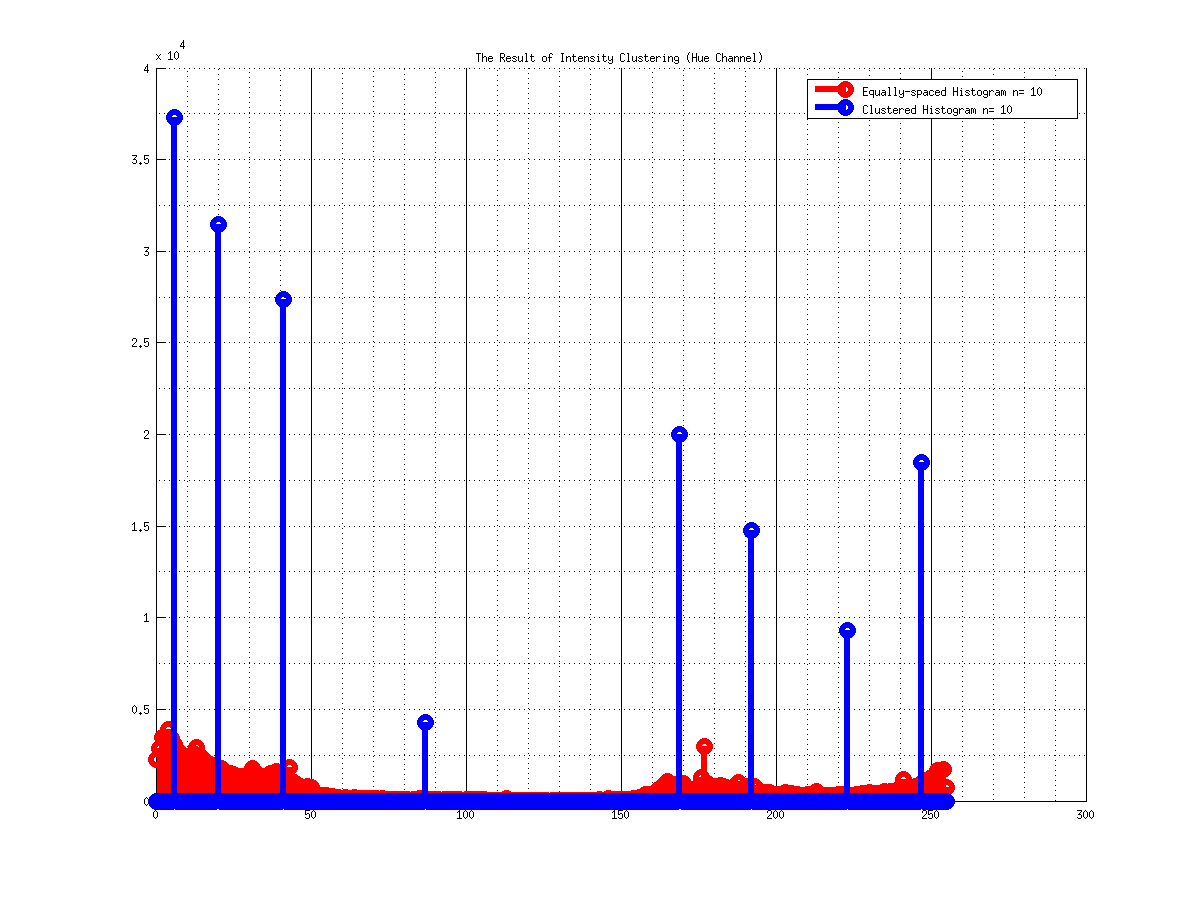
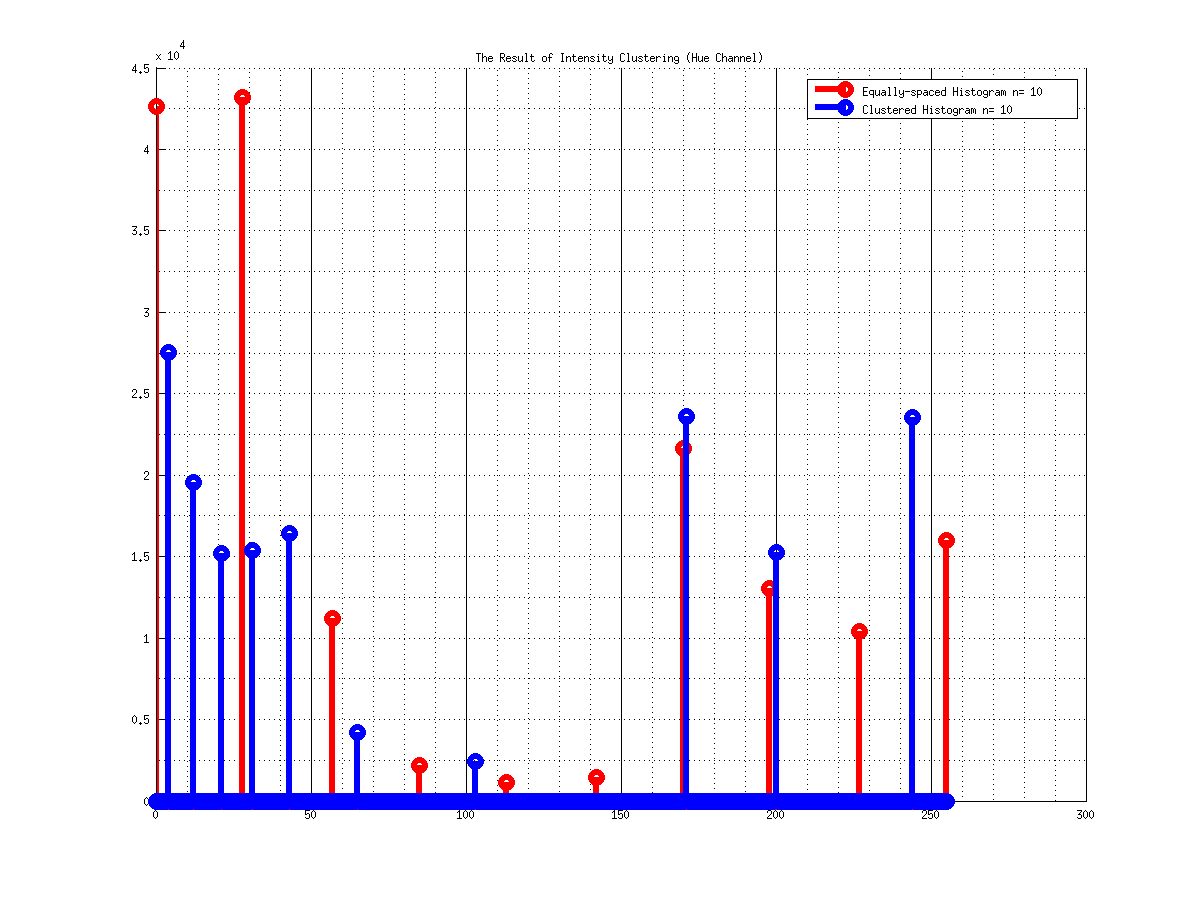
4 ChRi$

Changed region(s): [[0.1233, 0.0933, 0.3083, 0.9022], [0.4933, 0.4356, 0.8017, 0.9022], [0.3392, 0.7778, 0.4317, 0.9022]]

diff --git a/PS2/matlab/detectCircles.m b/PS2/matlab/detectCircles.m
@@ -1,34 +1,24 @@
 function [centers, ind] = detectCircles(im, radius, useGradient)
+    im = rgb2gray(im);
     [h, w, ~] = size(im);
+    [Gmag,Gdir] = imgradient(im);
+    edges = Gmag>mean(Gmag(:));
     
-    houghSpace = zeros(h,w);
-    theta.x= linspace(0,2*pi,h);
-    theta.y= linspace(0,2*pi,w);
+    [i, j] = find(edges == 1);
     
-    if(useGradient==1)
-
-        im = rgb2gray(im);
-
-        [Gmag,Gdir] = imgradient(im);
-        edges = uint8(Gmag);
-
-        edges = edges>mean(Gmag(:));
-        imshow(edges)
-    %     for i=1:h
-    %         for j=1:w
-    %             if(edges == 1)
-    %                 ind.x = radius * cos(theta) +.x;
-    %                 ind.y = radius * sin(theta) +center.y;
-    %                 houghSpace(ind.x,ind.y) = houghSpace(ind.x,ind.y) + 1;
-    %             end
-    %         end
-    %     end         
-        i=1:h;
-        j=1:w;
-
-        ind.x = radius * cos(theta.x) + i
-        ind.y = radius * sin(theta.y) + j
-        houghSpace(ind.x,ind.y) = houghSpace(ind.x,ind.y) + 1;
-        centers = houghSpace;
-	end
+    thetaResolution = 0.1;
+    angle = 0:thetaResolution:2*pi;
+    angleIndex = 1:numel(theta);
+    houghSpace = zeros(h,w,numel(theta));
+    
+    for counter=1:numel(i)
+        center.x = i(counter); center.y = j(counter);
+        if(useGradient == 1)
+            theta = 
+        end
+            
+        a = center.x -radius * cos(theta)
+                
+    end
+    
 end

diff --git a/PS2/matlab/hough.m b/PS2/matlab/hough.m
@@ -1,0 +1,49 @@
+clc; clear all; close all; profile on;
+
+im = imread('jupiter.jpg');
+[h, w, ~] = size(im);
+
+frame = zeros(h,w, 'uint8');
+
+radius = 150;
+% center.x = 200;
+% center.y = 200;
+useGradient = 1;
+% detectCircles(im,10,1);
+
+im = rgb2gray(im);
+[h, w, ~] = size(im);
+[Gmag,Gdir] = imgradient(im);
+edges = Gmag>mean(Gmag(:));
+
+Gdir = Gdir * 0.0175 + pi;
+
+[i, j] = find(edges == 1);
+
+thetaResolution = 0.1;
+angle = 0:thetaResolution:2*pi;
+angleIndex = 1:numel(angle);
+houghSpace = zeros(h,w);
+
+for counter=1:numel(i)
+    center.y = i(counter);
+    center.x = j(counter);
+    if(useGradient == 1)
+        theta = Gdir(center.y, center.x);
+    else
+        theta = angle;
+    end
+           
+    a = center.x + radius * cos(theta);
+    b = center.y + radius * sin(theta);
+    a(a>w | a<1) = [];
+    b(b>h | b<1) = [];
+    
+    houghSpace(round(b), round(a)) = houghSpace(round(b), round(a)) + 1;
+    
+%     for votingCounter=1:numel(theta)
+%         [~, idx] = min(abs(angle-theta(votingCounter)));
+%         ['a: ', num2str(round(a)), ' b: ', num2str(round(b)), ' theta: ', num2str(theta), ' idx: ', num2str(idx)];
+%         houghSpace(round(b), round(a));
+%     end
+end

diff --git a/PS2/matlab/circleCoordinates.m b/PS2/matlab/circleCoordinates.m
@@ -1,11 +1,21 @@
-function [coordinates,frame] = circleCoordinates(im, center, radius)  
-    [h, w, ~] = size(im);   
-    frame = zeros(h,w, 'uint8')
-    [xx, yy] = meshgrid(1:w, 1:h);
+function [geometry] = circleCoordinates(center, radius, thetaRes)  
+    theta = 0:thetaRes:2*pi;
 
-    p = (xx-center.x).^2;
-    t = (yy-center.y).^2;
-
-    coordinates = (p+t)>=radius^2 & (p+t)<=(radius+1)^2;
-    frame(coordinates) = 255;
+    geometry.x = center.x + radius * cos(theta);
+    geometry.y = center.y + radius * sin(theta);
+    
+    geometry.frame = zeros(numel(geometry.x), numel(geometry.y), 'uint8');
+    geometry.frame(round(geometry.y),round(geometry.x)) = 255;
+    
+%     geometry.h = floor(center.y + radius);
+%     geometry.w = floor(center.x + radius);
+%     
+%     geometry.frame = zeros(geometry.h, geometry.w, 'uint8');
+%     [xx, yy] = meshgrid(1:geometry.w, 1:geometry.h);
+%  
+%     p = (xx-center.x).^2;
+%     t = (yy-center.y).^2;
+% 
+%     geometry.coordinates = (p+t)>=radius^2 & (p+t)<=(radius+1)^2;
+%     geometry.frame(geometry.coordinates) = 255;
 end

diff --git a/PS2/matlab/getHueHists.m b/PS2/matlab/getHueHists.m
@@ -1,11 +1,9 @@
 function [histEqual, histClustered, HSV] = getHueHists(im, k)
     HSV.double = rgb2hsv(im);
     HSV.uint8 = uint8(HSV.double*255);
-     
-%     inputImage.HSV = rgb2hsv(inputImage.RGB);
-%     inputImage.HSVuint = uint8(inputImage.HSV*255);
-
     [output, ~] = quantizeHSV(HSV.uint8, k);
     [histClustered, ~] = imhist(output(:,:,1));
-    [histEqual, ~] = imhist(HSV.uint8(:,:,1));    
+    [counts, x] = imhist(HSV.uint8(:,:,1),k);
+    histEqual = zeros(1,255);
+    histEqual(round(x+1)) = counts;
 end

diff --git a/PS2/matlab/colorQuantizeMain.m b/PS2/matlab/colorQuantizeMain.m
@@ -6,7 +6,7 @@ inputImage.RGB = imread('fish.jpg');
 subplot(3,1,1); imshow(inputImage.RGB); title('Input Image');
 [h, w, c] = size(inputImage.RGB);
 
-nCluster = 2;
+nCluster = 4;
 
 % 2-1-a
 [outputImage.RGB, meanColors] = quantizeRGB(inputImage.RGB, nCluster);
